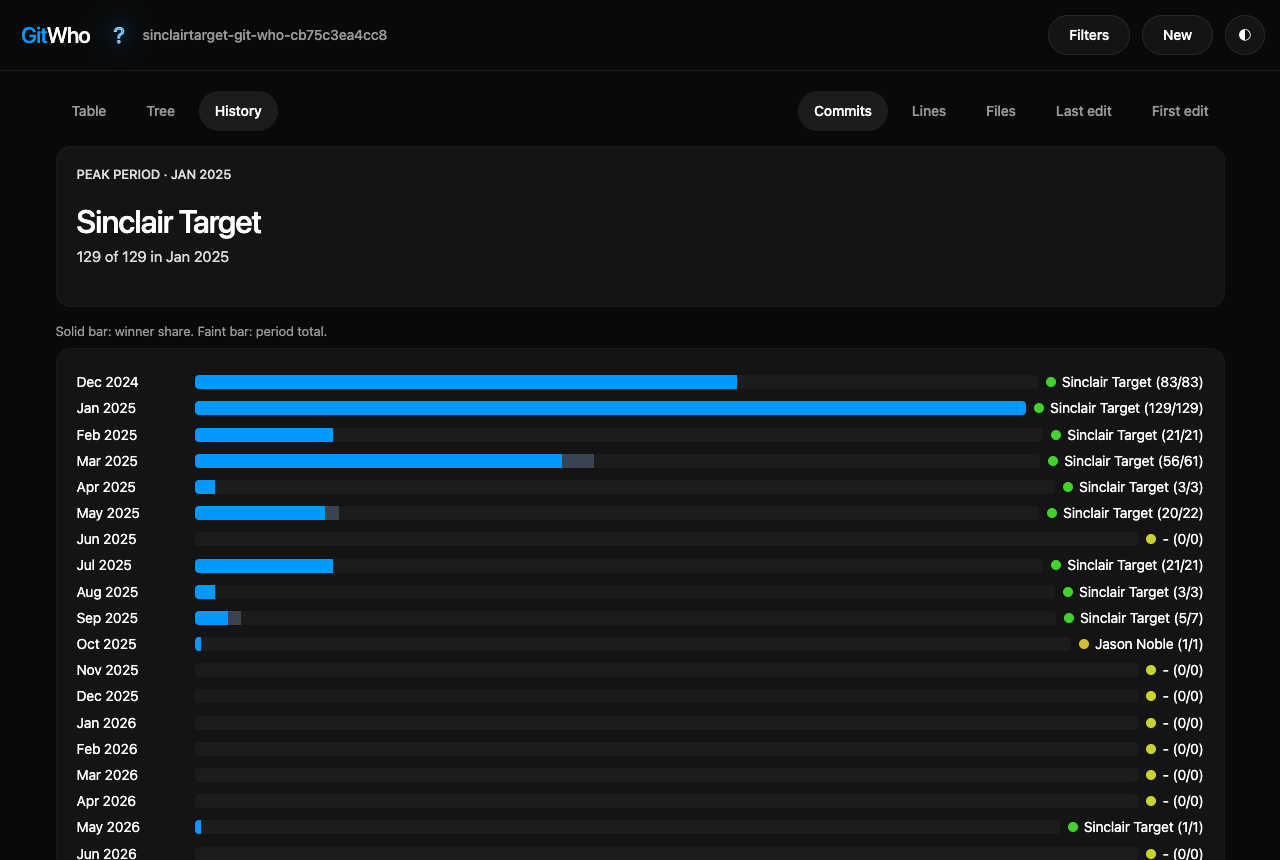
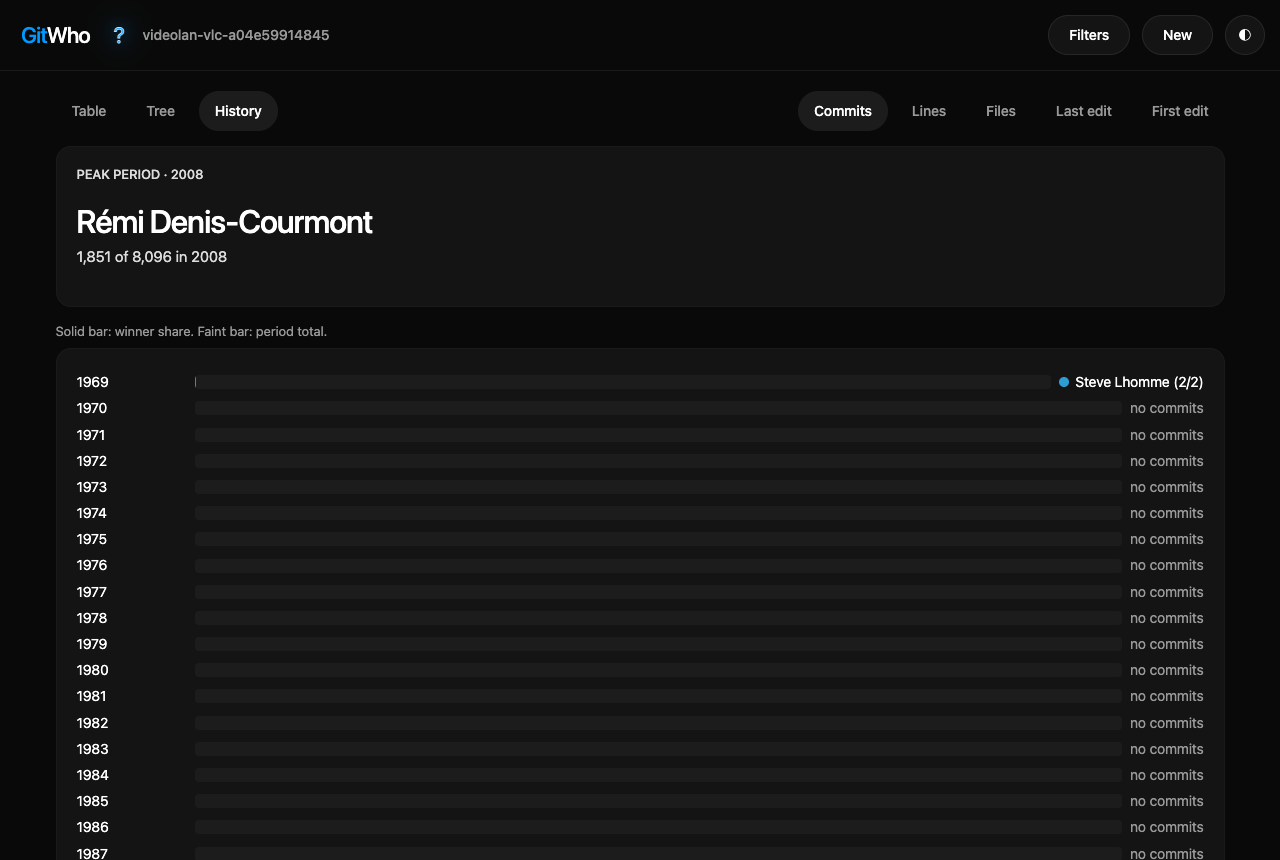
Screenshots from VLC history, cleaner empty hist rows

diff --git a/internal/serve/dist/assets/index-D9Ej_Rqo.js b/internal/serve/dist/assets/index-D9Ej_Rqo.js
@@ -38,7 +38,7 @@
         <button id="d-apply" class="btn btn-primary">Apply dates</button>
       </div>
     </dialog>
-  </div>`}function C(e){return new Date(e.getFullYear(),e.getMonth(),1)}function ue(e){const n=/^(\d{4})-(\d{2})-(\d{2})/.exec(e);if(!n)return null;const r=new Date(Number(n[1]),Number(n[2])-1,Number(n[3]));return isNaN(r.getTime())?null:r}function pe(e,n){var E,A,$,L,D,l,u;const r=e.querySelector("#filters-btn");r==null||r.addEventListener("click",c=>{c.stopPropagation(),t.filtersOpen=!t.filtersOpen,n()});const o=c=>{var y;return((y=e.querySelector(`#${c}`))==null?void 0:y.value)??""},i=c=>{var y;return((y=e.querySelector(`#${c}`))==null?void 0:y.checked)??!1},a=e.querySelector("#date-dialog");let d=C(new Date),f="",s="";const g=()=>{const c=a==null?void 0:a.querySelector("#d-summary");c&&(c.textContent=f||s?`${f||"…"} → ${s||"…"}`:"All time. Click a day for start, again for end.")},m=()=>{const c=a==null?void 0:a.querySelector("#cal-grid"),y=a==null?void 0:a.querySelector("#cal-title");if(!c||!y||!a)return;y.textContent=`${oe[d.getMonth()]} ${d.getFullYear()}`;const k=N(new Date),J=new Date(d.getFullYear(),d.getMonth(),1).getDay(),K=new Date(d.getFullYear(),d.getMonth()+1,0).getDate();let F=le.map(v=>`<span class="cal-dow">${v}</span>`).join("");for(let v=0;v<J;v++)F+="<span></span>";for(let v=1;v<=K;v++){const w=N(new Date(d.getFullYear(),d.getMonth(),v)),S=w===f,R=w===s&&s!==f,V=f&&s&&w>f&&w<s,X=["cal-day",S||R?"endpoint":"",V?"in-range":"",w===k?"today":""].filter(Boolean).join(" ");F+=`<button class="${X}" data-day="${w}" role="gridcell" aria-label="${w}${S?", range start":R?", range end":""}">${v}</button>`}c.innerHTML=F,c.querySelectorAll("button[data-day]").forEach(v=>{v.addEventListener("click",w=>{w.preventDefault();const S=v.dataset.day;!f||f&&s?(f=S,s=""):S<f?(s=f,f=S):s=S,m()})}),g()},b=()=>{if(!a)return;f=/^\d{4}-\d{2}-\d{2}/.test(t.since)?t.since.slice(0,10):"",s=/^\d{4}-\d{2}-\d{2}/.test(t.until)?t.until.slice(0,10):"";const c=ue(f)??new Date;d=C(c),m(),a.showModal()};(E=e.querySelector("#f-dates"))==null||E.addEventListener("click",b),(A=a==null?void 0:a.querySelector("#cal-prev"))==null||A.addEventListener("click",c=>{c.preventDefault(),d=new Date(d.getFullYear(),d.getMonth()-1,1),m()}),($=a==null?void 0:a.querySelector("#cal-next"))==null||$.addEventListener("click",c=>{c.preventDefault(),d=new Date(d.getFullYear(),d.getMonth()+1,1),m()}),a==null||a.querySelectorAll("button[data-preset]").forEach(c=>{c.addEventListener("click",y=>{if(y.preventDefault(),c.dataset.preset==="all")f="",s="";else{const k=new Date;k.setDate(k.getDate()-Number(c.dataset.preset)),f=N(k),s="",d=C(k)}m()})});const M=()=>{const c=e.querySelector("#f-dates");c&&(c.textContent=t.since||t.until?`${t.since||"…"} → ${t.until||"…"}`:"All time 📅")};(L=e.querySelector("#d-apply"))==null||L.addEventListener("click",c=>{c.preventDefault(),t.since=f,t.until=s,a==null||a.close(),M()}),(D=e.querySelector("#d-cancel"))==null||D.addEventListener("click",c=>{c.preventDefault(),a==null||a.close()}),(l=e.querySelector("#f-apply"))==null||l.addEventListener("click",()=>{t.rev=o("f-rev")||"HEAD",t.path=o("f-path"),t.author=o("f-author"),t.nauthor=o("f-nauthor"),t.email=i("f-email"),t.merges=i("f-merges"),t.hidden=i("f-hidden"),t.filtersOpen=!1,n()}),(u=e.querySelector("#f-clear"))==null||u.addEventListener("click",()=>{t.rev="HEAD",t.path="",t.since="",t.until="",t.author="",t.nauthor="",t.email=!1,t.merges=!1,t.hidden=!1,t.filtersOpen=!1,n()})}function fe(){return`
+  </div>`}function C(e){return new Date(e.getFullYear(),e.getMonth(),1)}function ue(e){const n=/^(\d{4})-(\d{2})-(\d{2})/.exec(e);if(!n)return null;const r=new Date(Number(n[1]),Number(n[2])-1,Number(n[3]));return isNaN(r.getTime())?null:r}function pe(e,n){var E,A,$,L,D,l,u;const r=e.querySelector("#filters-btn");r==null||r.addEventListener("click",c=>{c.stopPropagation(),t.filtersOpen=!t.filtersOpen,n()});const o=c=>{var y;return((y=e.querySelector(`#${c}`))==null?void 0:y.value)??""},i=c=>{var y;return((y=e.querySelector(`#${c}`))==null?void 0:y.checked)??!1},a=e.querySelector("#date-dialog");let d=C(new Date),f="",s="";const h=()=>{const c=a==null?void 0:a.querySelector("#d-summary");c&&(c.textContent=f||s?`${f||"…"} → ${s||"…"}`:"All time. Click a day for start, again for end.")},m=()=>{const c=a==null?void 0:a.querySelector("#cal-grid"),y=a==null?void 0:a.querySelector("#cal-title");if(!c||!y||!a)return;y.textContent=`${oe[d.getMonth()]} ${d.getFullYear()}`;const k=N(new Date),J=new Date(d.getFullYear(),d.getMonth(),1).getDay(),K=new Date(d.getFullYear(),d.getMonth()+1,0).getDate();let F=le.map(v=>`<span class="cal-dow">${v}</span>`).join("");for(let v=0;v<J;v++)F+="<span></span>";for(let v=1;v<=K;v++){const w=N(new Date(d.getFullYear(),d.getMonth(),v)),S=w===f,R=w===s&&s!==f,V=f&&s&&w>f&&w<s,X=["cal-day",S||R?"endpoint":"",V?"in-range":"",w===k?"today":""].filter(Boolean).join(" ");F+=`<button class="${X}" data-day="${w}" role="gridcell" aria-label="${w}${S?", range start":R?", range end":""}">${v}</button>`}c.innerHTML=F,c.querySelectorAll("button[data-day]").forEach(v=>{v.addEventListener("click",w=>{w.preventDefault();const S=v.dataset.day;!f||f&&s?(f=S,s=""):S<f?(s=f,f=S):s=S,m()})}),h()},g=()=>{if(!a)return;f=/^\d{4}-\d{2}-\d{2}/.test(t.since)?t.since.slice(0,10):"",s=/^\d{4}-\d{2}-\d{2}/.test(t.until)?t.until.slice(0,10):"";const c=ue(f)??new Date;d=C(c),m(),a.showModal()};(E=e.querySelector("#f-dates"))==null||E.addEventListener("click",g),(A=a==null?void 0:a.querySelector("#cal-prev"))==null||A.addEventListener("click",c=>{c.preventDefault(),d=new Date(d.getFullYear(),d.getMonth()-1,1),m()}),($=a==null?void 0:a.querySelector("#cal-next"))==null||$.addEventListener("click",c=>{c.preventDefault(),d=new Date(d.getFullYear(),d.getMonth()+1,1),m()}),a==null||a.querySelectorAll("button[data-preset]").forEach(c=>{c.addEventListener("click",y=>{if(y.preventDefault(),c.dataset.preset==="all")f="",s="";else{const k=new Date;k.setDate(k.getDate()-Number(c.dataset.preset)),f=N(k),s="",d=C(k)}m()})});const M=()=>{const c=e.querySelector("#f-dates");c&&(c.textContent=t.since||t.until?`${t.since||"…"} → ${t.until||"…"}`:"All time 📅")};(L=e.querySelector("#d-apply"))==null||L.addEventListener("click",c=>{c.preventDefault(),t.since=f,t.until=s,a==null||a.close(),M()}),(D=e.querySelector("#d-cancel"))==null||D.addEventListener("click",c=>{c.preventDefault(),a==null||a.close()}),(l=e.querySelector("#f-apply"))==null||l.addEventListener("click",()=>{t.rev=o("f-rev")||"HEAD",t.path=o("f-path"),t.author=o("f-author"),t.nauthor=o("f-nauthor"),t.email=i("f-email"),t.merges=i("f-merges"),t.hidden=i("f-hidden"),t.filtersOpen=!1,n()}),(u=e.querySelector("#f-clear"))==null||u.addEventListener("click",()=>{t.rev="HEAD",t.path="",t.since="",t.until="",t.author="",t.nauthor="",t.email=!1,t.merges=!1,t.hidden=!1,t.filtersOpen=!1,n()})}function fe(){return`
   <div class="guide">
     <button id="guide-back" class="btn btn-secondary">← Back</button>
     <p class="caption" style="color:var(--muted);margin:32px 0 8px">Guide</p>
@@ -129,10 +129,10 @@ git-who serve --repo /path/to/repo</pre>
       ${q("first_modified","First edit","-c")}
     </div>
     <div id="view" role="tabpanel"><p class="legend">Loading…</p></div>
-  </div>`}function ve(e,n){const r=Math.max(1,...n.buckets.map(a=>a.total)),o=n.buckets.reduce((a,d)=>d.value>((a==null?void 0:a.value)??-1)?d:a,n.buckets[0]),i=n.buckets.map(a=>{const d=a.value/r*100,f=(a.total-a.value)/r*100,s=`${a.period}: ${a.author.name||"(no commits)"} ${a.value}/${a.total}`;return`<div class="hist-row" role="img" aria-label="${p(s)}">
+  </div>`}function ve(e,n){const r=Math.max(1,...n.buckets.map(a=>a.total)),o=n.buckets.reduce((a,d)=>d.value>((a==null?void 0:a.value)??-1)?d:a,n.buckets[0]),i=n.buckets.map(a=>{const d=a.value/r*100,f=(a.total-a.value)/r*100,s=`${a.period}: ${a.author.name||"(no commits)"} ${a.value}/${a.total}`,h=a.author.name?`<span class="dot" style="background:${T(a.author.name)}" aria-hidden="true"></span>${p(a.author.name)} (${a.value}/${a.total})`:'<span style="color:var(--muted)">no commits</span>';return`<div class="hist-row" role="img" aria-label="${p(s)}">
       <span>${p(a.period)}</span>
       <span class="hist-bar" aria-hidden="true"><span class="win" style="width:${d}%"></span><span class="rest" style="width:${f}%"></span></span>
-      <span class="who"><span class="dot" style="background:${T(a.author.name||"?")}" aria-hidden="true"></span>${p(a.author.name||"-")} (${a.value}/${a.total})</span>
+      <span class="who">${h}</span>
     </div>`}).join("");e.innerHTML=`
     ${o?`<div class="card spotlight spotlight-coral" style="margin-bottom:16px">
       <p class="caption">Peak period · ${p(o.period)}</p>
@@ -170,14 +170,14 @@ git-who serve --repo /path/to/repo</pre>
     <table class="data" aria-label="Contributions by author">
       <thead><tr>${f}</tr></thead>
       <tbody id="author-rows">${P(o)}</tbody>
-    </table></div>`,e.querySelectorAll("button[data-sort]").forEach(l=>{l.onclick=()=>{const u=l.dataset.sort;(t.tableSort||t.mode)===u?t.tableSortDir*=-1:(t.tableSort=u,t.tableSortDir=-1),r()}});const s=e.querySelector("#tf"),g=e.querySelector("#author-rows"),m=e.querySelector("#suggest");let b=-1;const M=()=>{const l=t.tableFilter.toLowerCase().trim();return l?n.authors.filter(u=>u.name.toLowerCase().includes(l)||u.email.toLowerCase().includes(l)).sort((u,c)=>E(u)-E(c)).slice(0,8):n.authors.slice(0,8)},E=l=>{const u=t.tableFilter.toLowerCase().trim();return l.name.toLowerCase().startsWith(u)?0:l.email.toLowerCase().startsWith(u)?1:2},A=l=>{const u=t.tableFilter.trim();if(!u)return p(l);const c=l.toLowerCase().indexOf(u.toLowerCase());return c<0?p(l):p(l.slice(0,c))+'<b class="hl">'+p(l.slice(c,c+u.length))+"</b>"+p(l.slice(c+u.length))},$=()=>{if(!m||!s)return;const l=M();l.length?(m.innerHTML=l.map((u,c)=>`
-        <button class="suggest-item${c===b?" active":""}" role="option"
-          aria-selected="${c===b}" data-i="${c}">
+    </table></div>`,e.querySelectorAll("button[data-sort]").forEach(l=>{l.onclick=()=>{const u=l.dataset.sort;(t.tableSort||t.mode)===u?t.tableSortDir*=-1:(t.tableSort=u,t.tableSortDir=-1),r()}});const s=e.querySelector("#tf"),h=e.querySelector("#author-rows"),m=e.querySelector("#suggest");let g=-1;const M=()=>{const l=t.tableFilter.toLowerCase().trim();return l?n.authors.filter(u=>u.name.toLowerCase().includes(l)||u.email.toLowerCase().includes(l)).sort((u,c)=>E(u)-E(c)).slice(0,8):n.authors.slice(0,8)},E=l=>{const u=t.tableFilter.toLowerCase().trim();return l.name.toLowerCase().startsWith(u)?0:l.email.toLowerCase().startsWith(u)?1:2},A=l=>{const u=t.tableFilter.trim();if(!u)return p(l);const c=l.toLowerCase().indexOf(u.toLowerCase());return c<0?p(l):p(l.slice(0,c))+'<b class="hl">'+p(l.slice(c,c+u.length))+"</b>"+p(l.slice(c+u.length))},$=()=>{if(!m||!s)return;const l=M();l.length?(m.innerHTML=l.map((u,c)=>`
+        <button class="suggest-item${c===g?" active":""}" role="option"
+          aria-selected="${c===g}" data-i="${c}">
           <span class="dot" style="background:${T(u.name)}" aria-hidden="true"></span>
           <span>${A(u.name)}</span>
           <small style="color:var(--muted)">${p(u.email)}</small>
-        </button>`).join(""),m.querySelectorAll(".suggest-item").forEach(u=>{u.addEventListener("mousedown",c=>{c.preventDefault(),D(l[Number(u.dataset.i)])})})):m.innerHTML='<div class="suggest-empty">No matching authors.</div>',m.hidden=!1,s.setAttribute("aria-expanded","true")},L=()=>{!m||!s||(m.hidden=!0,s.setAttribute("aria-expanded","false"),b=-1)},D=l=>{t.tableFilter=l.name,s&&(s.value=l.name),g&&(g.innerHTML=P(O(n))),L()};s==null||s.addEventListener("input",()=>{t.tableFilter=s.value,b=-1,g&&(g.innerHTML=P(O(n))),$()}),s==null||s.addEventListener("focus",()=>{b=-1,$()}),s==null||s.addEventListener("keydown",l=>{if(m!=null&&m.hidden)return;const u=M();l.key==="ArrowDown"?(l.preventDefault(),b=Math.min(b+1,u.length-1),$()):l.key==="ArrowUp"?(l.preventDefault(),b=Math.max(b-1,-1),$()):l.key==="Enter"&&b>=0&&u[b]?(l.preventDefault(),D(u[b])):l.key==="Escape"&&L()}),s==null||s.addEventListener("blur",()=>L())}function $e(e,n){if(!n)return e;let r=e;for(const o of n.split("/")){const i=(r.children||[]).find(a=>a.name===o&&a.is_dir);if(!i)return null;r=i}return r}function Se(){return t.mode==="lines"?"Lines":t.mode==="files"?"Files":t.mode==="last_modified"?"Last edit":t.mode==="first_modified"?"First edit":"Commits"}function Le(e){return t.mode==="lines"?`+${e.metrics.lines_added.toLocaleString()} / -${e.metrics.lines_removed.toLocaleString()}`:t.mode==="files"?e.metrics.files.toLocaleString():t.mode==="last_modified"?x(e.metrics.last_edit):t.mode==="first_modified"?x(e.metrics.first_edit):e.metrics.commits.toLocaleString()}function ke(e,n,r){if(!n.root){e.innerHTML="<p>No commits; tree is empty.</p>";return}const i=(($e(n.root,t.treePath)??n.root).children||[]).filter(s=>s.in_work_tree).sort((s,g)=>Number(g.is_dir)-Number(s.is_dir)||s.name.localeCompare(g.name)),a=t.treePath?t.treePath.split("/"):[],d=[`<button data-crumb="" class="crumb" aria-label="Repository root">${p(n.root.name==="."?t.repoName||"repo":n.root.name)}</button>`];a.forEach((s,g)=>{const m=a.slice(0,g+1).join("/");d.push(`<span aria-hidden="true">/</span> <button data-crumb="${p(m)}" class="crumb">${p(s)}</button>`)});const f=i.map(s=>{const g=s.is_dir?"📁":"📄",m=s.is_dir?`<button data-enter="${p(s.is_dir?t.treePath?t.treePath+"/"+s.name:s.name:"")}" class="linklike">${p(s.name)}</button>`:`<span>${p(s.name)}</span>`;return`<tr>
-      <td><span aria-hidden="true">${g}</span> ${m}</td>
+        </button>`).join(""),m.querySelectorAll(".suggest-item").forEach(u=>{u.addEventListener("mousedown",c=>{c.preventDefault(),D(l[Number(u.dataset.i)])})})):m.innerHTML='<div class="suggest-empty">No matching authors.</div>',m.hidden=!1,s.setAttribute("aria-expanded","true")},L=()=>{!m||!s||(m.hidden=!0,s.setAttribute("aria-expanded","false"),g=-1)},D=l=>{t.tableFilter=l.name,s&&(s.value=l.name),h&&(h.innerHTML=P(O(n))),L()};s==null||s.addEventListener("input",()=>{t.tableFilter=s.value,g=-1,h&&(h.innerHTML=P(O(n))),$()}),s==null||s.addEventListener("focus",()=>{g=-1,$()}),s==null||s.addEventListener("keydown",l=>{if(m!=null&&m.hidden)return;const u=M();l.key==="ArrowDown"?(l.preventDefault(),g=Math.min(g+1,u.length-1),$()):l.key==="ArrowUp"?(l.preventDefault(),g=Math.max(g-1,-1),$()):l.key==="Enter"&&g>=0&&u[g]?(l.preventDefault(),D(u[g])):l.key==="Escape"&&L()}),s==null||s.addEventListener("blur",()=>L())}function $e(e,n){if(!n)return e;let r=e;for(const o of n.split("/")){const i=(r.children||[]).find(a=>a.name===o&&a.is_dir);if(!i)return null;r=i}return r}function Se(){return t.mode==="lines"?"Lines":t.mode==="files"?"Files":t.mode==="last_modified"?"Last edit":t.mode==="first_modified"?"First edit":"Commits"}function Le(e){return t.mode==="lines"?`+${e.metrics.lines_added.toLocaleString()} / -${e.metrics.lines_removed.toLocaleString()}`:t.mode==="files"?e.metrics.files.toLocaleString():t.mode==="last_modified"?x(e.metrics.last_edit):t.mode==="first_modified"?x(e.metrics.first_edit):e.metrics.commits.toLocaleString()}function ke(e,n,r){if(!n.root){e.innerHTML="<p>No commits; tree is empty.</p>";return}const i=(($e(n.root,t.treePath)??n.root).children||[]).filter(s=>s.in_work_tree).sort((s,h)=>Number(h.is_dir)-Number(s.is_dir)||s.name.localeCompare(h.name)),a=t.treePath?t.treePath.split("/"):[],d=[`<button data-crumb="" class="crumb" aria-label="Repository root">${p(n.root.name==="."?t.repoName||"repo":n.root.name)}</button>`];a.forEach((s,h)=>{const m=a.slice(0,h+1).join("/");d.push(`<span aria-hidden="true">/</span> <button data-crumb="${p(m)}" class="crumb">${p(s)}</button>`)});const f=i.map(s=>{const h=s.is_dir?"📁":"📄",m=s.is_dir?`<button data-enter="${p(s.is_dir?t.treePath?t.treePath+"/"+s.name:s.name:"")}" class="linklike">${p(s.name)}</button>`:`<span>${p(s.name)}</span>`;return`<tr>
+      <td><span aria-hidden="true">${h}</span> ${m}</td>
       <td><span class="dot" style="background:${T(s.author.name)}" aria-hidden="true"></span>${p(s.author.name)}</td>
       <td>${p(Le(s))}</td>
       <td style="color:var(--muted)">${x(s.metrics.last_edit)}</td>
@@ -198,4 +198,4 @@ git-who serve --repo /path/to/repo</pre>
       <div class="index-bar" aria-hidden="true"><span></span></div>
       <p class="status body-sm" id="index-status">${((f=B[n])==null?void 0:f[0])??"Working"}…</p>
       <div class="index-dots" aria-hidden="true"><span></span><span></span><span></span></div>
-    </div>`,window.matchMedia("(prefers-reduced-motion: reduce)").matches)return()=>{};const o=B[n]??["Working"];let i=0;const a=e.querySelector("#index-status"),d=window.setInterval(()=>{i=(i+1)%o.length,a&&(a.textContent=`${o[i]}…`)},900);return()=>window.clearInterval(d)}async function qe(e){const n=De(e,t.view);try{t.view==="table"?we(e,await ae(),h):t.view==="tree"?ke(e,await ne(),h):ve(e,await re())}catch(r){e.innerHTML=`<p class="error" role="alert">Error: ${p(r.message)}</p>`}finally{n()}}function Y(e){t.guideFrom=e,t.screen="guide",h()}function Te(){t.screen=t.guideFrom==="app"&&t.repo?"app":"landing",h()}function h(){var n,r,o,i;const e=document.getElementById("app");if(t.screen==="guide"){e.innerHTML=fe(),me(e,Te),H();return}if(!t.repo){t.screen="landing",e.innerHTML=be(),ge(e,U,()=>Y("landing")),H();return}t.screen="app",e.innerHTML=ye(),(n=e.querySelector("#brand-home"))==null||n.addEventListener("click",()=>{t.repo="",t.repoName="",t.analyzeError="",h()}),(r=e.querySelector("#brand-q"))==null||r.addEventListener("click",()=>Y("app")),(o=e.querySelector("#new-repo"))==null||o.addEventListener("click",()=>{t.repo="",t.repoName="",t.analyzeError="",h()}),(i=e.querySelector("#theme"))==null||i.addEventListener("click",()=>{const a=document.documentElement,d=a.getAttribute("data-theme")==="dark"?"light":"dark";a.setAttribute("data-theme",d),localStorage.setItem("git-who-theme",d)}),e.querySelectorAll("button[data-view]").forEach(a=>{a.onclick=()=>{t.view=a.dataset.view,h()}}),e.querySelectorAll("button[data-mode]").forEach(a=>{a.onclick=()=>{t.mode=a.dataset.mode,t.tableSort="",h()}}),pe(e,h),document.onpointerdown=a=>{t.filtersOpen&&!a.target.closest(".popover-wrap")&&(t.filtersOpen=!1,h())},document.onkeydown=a=>{a.key==="Escape"&&t.filtersOpen&&(t.filtersOpen=!1,h())},qe(e.querySelector("#view")),H()}async function U(e){t.analyzing=!0,t.analyzeError="",t.landingInput=e,h();try{const n=await se(e);t.repo=n.repo,t.repoName=n.name,t.treePath="",t.collapsed.clear(),t.analyzing=!1;const r=new URL(location.href);r.searchParams.set("repo",e),history.replaceState(null,"",r),h()}catch(n){t.analyzing=!1,t.analyzeError=n.message,h()}}function xe(){Q(),Z();const e=localStorage.getItem("git-who-theme");e&&document.documentElement.setAttribute("data-theme",e);const r=new URLSearchParams(location.search).get("repo");if(r){t.landingInput=r,U(r);return}h()}xe();
+    </div>`,window.matchMedia("(prefers-reduced-motion: reduce)").matches)return()=>{};const o=B[n]??["Working"];let i=0;const a=e.querySelector("#index-status"),d=window.setInterval(()=>{i=(i+1)%o.length,a&&(a.textContent=`${o[i]}…`)},900);return()=>window.clearInterval(d)}async function qe(e){const n=De(e,t.view);try{t.view==="table"?we(e,await ae(),b):t.view==="tree"?ke(e,await ne(),b):ve(e,await re())}catch(r){e.innerHTML=`<p class="error" role="alert">Error: ${p(r.message)}</p>`}finally{n()}}function Y(e){t.guideFrom=e,t.screen="guide",b()}function Te(){t.screen=t.guideFrom==="app"&&t.repo?"app":"landing",b()}function b(){var n,r,o,i;const e=document.getElementById("app");if(t.screen==="guide"){e.innerHTML=fe(),me(e,Te),H();return}if(!t.repo){t.screen="landing",e.innerHTML=be(),ge(e,U,()=>Y("landing")),H();return}t.screen="app",e.innerHTML=ye(),(n=e.querySelector("#brand-home"))==null||n.addEventListener("click",()=>{t.repo="",t.repoName="",t.analyzeError="",b()}),(r=e.querySelector("#brand-q"))==null||r.addEventListener("click",()=>Y("app")),(o=e.querySelector("#new-repo"))==null||o.addEventListener("click",()=>{t.repo="",t.repoName="",t.analyzeError="",b()}),(i=e.querySelector("#theme"))==null||i.addEventListener("click",()=>{const a=document.documentElement,d=a.getAttribute("data-theme")==="dark"?"light":"dark";a.setAttribute("data-theme",d),localStorage.setItem("git-who-theme",d)}),e.querySelectorAll("button[data-view]").forEach(a=>{a.onclick=()=>{t.view=a.dataset.view,b()}}),e.querySelectorAll("button[data-mode]").forEach(a=>{a.onclick=()=>{t.mode=a.dataset.mode,t.tableSort="",b()}}),pe(e,b),document.onpointerdown=a=>{t.filtersOpen&&!a.target.closest(".popover-wrap")&&(t.filtersOpen=!1,b())},document.onkeydown=a=>{a.key==="Escape"&&t.filtersOpen&&(t.filtersOpen=!1,b())},qe(e.querySelector("#view")),H()}async function U(e){t.analyzing=!0,t.analyzeError="",t.landingInput=e,b();try{const n=await se(e);t.repo=n.repo,t.repoName=n.name,t.treePath="",t.collapsed.clear(),t.analyzing=!1;const r=new URL(location.href);r.searchParams.set("repo",e),history.replaceState(null,"",r),b()}catch(n){t.analyzing=!1,t.analyzeError=n.message,b()}}function xe(){Q(),Z();const e=localStorage.getItem("git-who-theme");e&&document.documentElement.setAttribute("data-theme",e);const r=new URLSearchParams(location.search).get("repo");if(r){t.landingInput=r,U(r);return}b()}xe();

diff --git a/web/src/views/hist.ts b/web/src/views/hist.ts
@@ -8,10 +8,13 @@ export function renderHist(host: HTMLElement, data: HistResp) {
     const winPct = (b.value / max) * 100;
     const restPct = ((b.total - b.value) / max) * 100;
     const label = `${b.period}: ${b.author.name || '(no commits)'} ${b.value}/${b.total}`;
+    const who = b.author.name
+      ? `<span class="dot" style="background:${authorColor(b.author.name)}" aria-hidden="true"></span>${esc(b.author.name)} (${b.value}/${b.total})`
+      : `<span style="color:var(--muted)">no commits</span>`;
     return `<div class="hist-row" role="img" aria-label="${esc(label)}">
       <span>${esc(b.period)}</span>
       <span class="hist-bar" aria-hidden="true"><span class="win" style="width:${winPct}%"></span><span class="rest" style="width:${restPct}%"></span></span>
-      <span class="who"><span class="dot" style="background:${authorColor(b.author.name || '?')}" aria-hidden="true"></span>${esc(b.author.name || '-')} (${b.value}/${b.total})</span>
+      <span class="who">${who}</span>
     </div>`;
   }).join('');
   host.innerHTML = `

diff --git a/internal/serve/dist/index.html b/internal/serve/dist/index.html
@@ -6,7 +6,7 @@
     <title>git-who web</title>
     <!-- AOS: scroll-in animations (CSS in <head>) -->
     <link href="https://unpkg.com/aos@2.3.4/dist/aos.css" rel="stylesheet" />
-    <script type="module" crossorigin src="/assets/index-vycvJfAG.js"></script>
+    <script type="module" crossorigin src="/assets/index-D9Ej_Rqo.js"></script>
     <link rel="stylesheet" crossorigin href="/assets/index-B_7aipPm.css">
   </head>
   <body>

diff --git a/screenshots/gen.go b/screenshots/gen.go
@@ -85,7 +85,7 @@ func main() {
 	}{
 		{"table.svg", "git-who table", []string{"table"}},
 		{"table-lines.svg", "git-who table -l", []string{"table", "-l"}},
-		{"tree.svg", "git-who tree -d 2", []string{"tree", "-d", "2"}},
+		{"tree.svg", "git-who tree -d 1", []string{"tree", "-d", "1"}},
 		{"hist.svg", "git-who hist", []string{"hist"}},
 	}
 	for _, j := range jobs {

diff --git a/README.md b/README.md
@@ -73,19 +73,11 @@ git-who hist            # timeline of top authors
 
 ## Screenshots
 
-Real output. `screenshots/gen.go` rebuilds these from a demo repo.
-
-Rank authors. `-l` adds files and lines:
-
 ![git-who table](screenshots/table.svg)
 
 ![git-who table -l](screenshots/table-lines.svg)
 
-Top contributor per node (`-d` limits depth, `-a` annotates every file):
-
 ![git-who tree](screenshots/tree.svg)
-
-Timeline (`-l` ranks periods by lines):
 
 ![git-who hist](screenshots/hist.svg)
 
